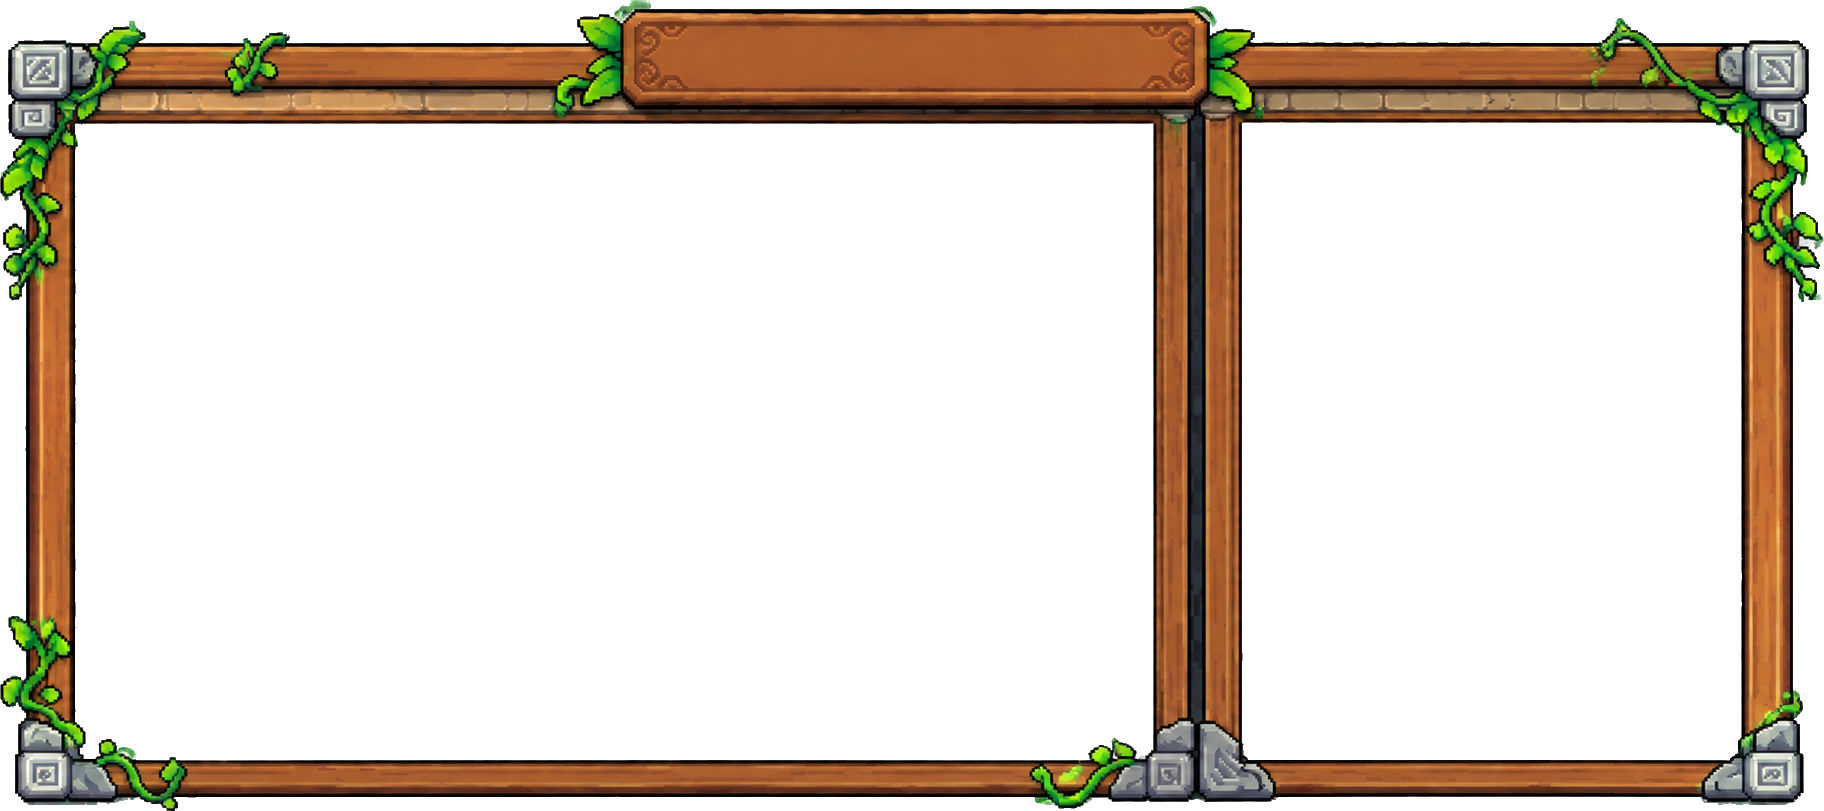
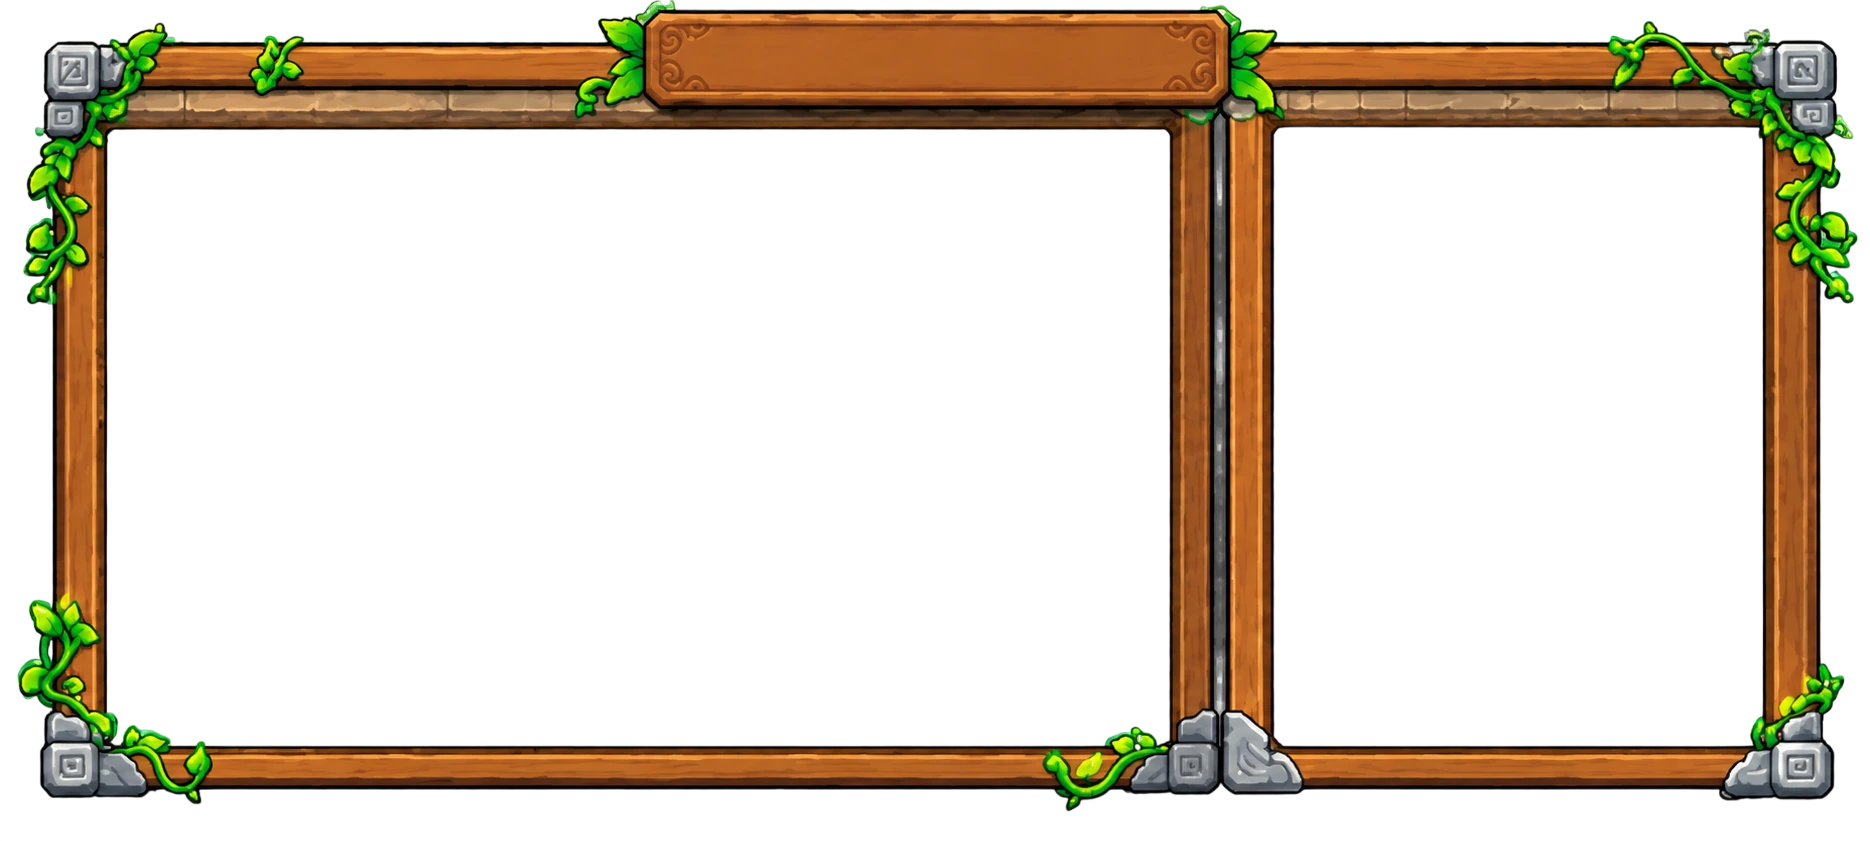
Menu: new frame image and image-based close button
Claude-Session: https://claude.ai/code/session_01U5wpp6cRMfC8wB3ie8L38i

Changed region(s): [[0.0, 0.0, 1.0, 1.0]]

diff --git a/css/menu.css b/css/menu.css
@@ -11,24 +11,26 @@
 .tm-btn.on{filter:brightness(1.3);outline-color:#ffd54a}
 
 /* KHUNG MENU: ảnh khung gỗ viền đá (assets/ui/menu-frame.webp, nền trong suốt) phủ lên 2 ô nội dung.
-   Ảnh 1824x811: ô trái (danh sách) x76..1152, ô phải (chi tiết) x1242..1740, cùng y124..759, bảng tên x625..1205 y14..100.
+   Ảnh 1870x841: ô trái (danh sách) x108..1168, ô phải (chi tiết) x1274..1761, cùng y130..745, bảng tên x646..1227 y14..105.
    Mọi vị trí bên dưới tính theo % của khung nên co giãn theo ảnh; chữ trong khung tính theo em (gmFit đặt cỡ chữ gốc). */
 #gm{position:fixed;inset:0;z-index:40;box-sizing:border-box;padding:clamp(54px,9.5vh,70px) 1.5% 1.5%;display:flex;align-items:center;justify-content:center;background:rgba(0,0,0,.5);font-family:'Fredoka',sans-serif;color:#fff1d6}
 #gm.hidden{display:none}
-.gm-frame{position:relative;width:80em;max-width:100%;aspect-ratio:1824/811}
+.gm-frame{position:relative;width:80em;max-width:100%;aspect-ratio:1870/841}
 .gm-frame::after{content:'';position:absolute;inset:0;z-index:3;pointer-events:none;background:url("../assets/ui/menu-frame.webp") center/100% 100% no-repeat;filter:drop-shadow(0 .3em .6em rgba(0,0,0,.55))}
 .gm-body{position:absolute;inset:0}
 
 /* tiêu đề nằm trên bảng gỗ + nút ĐÓNG tròn ở góc trên phải của khung */
-.gm-title{position:absolute;z-index:4;left:34.3%;width:31.8%;top:1.7%;height:11.5%;display:flex;align-items:center;justify-content:center;font-size:1.7em;font-weight:700;letter-spacing:.04em;color:#fff6dc;white-space:nowrap;
+.gm-title{position:absolute;z-index:4;left:34.5%;width:31.1%;top:1.7%;height:10.8%;display:flex;align-items:center;justify-content:center;font-size:1.7em;font-weight:700;letter-spacing:.04em;color:#fff6dc;white-space:nowrap;
   text-shadow:.07em .07em 0 #3a1d0c,-.07em .07em 0 #3a1d0c,.07em -.07em 0 #3a1d0c,-.07em -.07em 0 #3a1d0c,0 .12em 0 #3a1d0c}
-#gm-close{position:absolute;right:calc(2.2% - 1.3em);top:calc(9.4% - 1.3em);z-index:5;width:2.6em;height:2.6em;padding:0;display:flex;align-items:center;justify-content:center;border-radius:50%;font-size:1em;line-height:1;border-color:#ffd68a;outline:.15em solid #3a1208;box-shadow:0 .25em .5em rgba(0,0,0,.55)}
+#gm-close{position:absolute;right:calc(1.9% - 2.2em);top:calc(5.4% - 2.2em);z-index:5;width:4.4em;height:4.4em;padding:0;border:0;background:url("../assets/ui/close-btn.webp") center/contain no-repeat;cursor:pointer;filter:drop-shadow(0 .2em .3em rgba(0,0,0,.55));transition:transform .12s,filter .12s}
+#gm-close:hover{transform:scale(1.08);filter:brightness(1.12) drop-shadow(0 .2em .3em rgba(0,0,0,.55))}
+#gm-close:active{transform:scale(.94)}
 
 /* Ô NỘI DUNG: nằm đúng trong lòng khung (nền gỗ tối; mép giấu dưới thanh gỗ của ảnh khung) */
-.gm-panel{position:absolute;top:calc(15.3% - .3em);height:calc(78.3% + .6em);box-sizing:border-box;display:flex;flex-direction:column;min-height:0;padding:1em 1.1em .8em;overflow:hidden;
+.gm-panel{position:absolute;top:calc(15.46% - .3em);height:calc(73.2% + .6em);box-sizing:border-box;display:flex;flex-direction:column;min-height:0;padding:1em 1.1em .8em;overflow:hidden;
   background:repeating-linear-gradient(90deg,rgba(0,0,0,.13) 0 .14em,transparent .14em 3.2em),linear-gradient(#7a4a22,#5a3216)}
-.gm-list{left:calc(4.17% - .3em);width:calc(59% + .6em)}
-.gm-detail{left:calc(68.1% - .3em);width:calc(27.3% + .6em);padding:1em .9em .8em}
+.gm-list{left:calc(5.78% - .3em);width:calc(56.7% + .6em)}
+.gm-detail{left:calc(68.13% - .3em);width:calc(26.1% + .6em);padding:1em .9em .8em}
 .gm-set{gap:.8em}
 .grow{display:flex;align-items:center;justify-content:space-between;gap:1em;font-weight:700;font-size:1.1em}
 
@@ -38,7 +40,7 @@
 .gf.on{background:linear-gradient(#f4b043,#d9801c);border-color:#7a4010;color:#fff}
 
 /* LƯỚI THẺ: 6 ô mỗi hàng, cao đúng 3 hàng (nhiều hơn 18 thẻ thì cuộn) */
-.gm-grid{flex:none;height:21.8em;overflow:auto;display:grid;grid-template-columns:repeat(6,minmax(0,1fr));grid-auto-rows:6.2em;gap:.9em .6em;align-content:start;padding:1em .5em .5em;border-radius:.4em;border:.2em solid #2b160a;
+.gm-grid{flex:none;height:20.2em;overflow:auto;display:grid;grid-template-columns:repeat(6,minmax(0,1fr));grid-auto-rows:5.6em;gap:.8em .6em;align-content:start;padding:1em .5em .5em;border-radius:.4em;border:.2em solid #2b160a;
   background:repeating-linear-gradient(90deg,rgba(0,0,0,.15) 0 .12em,transparent .12em 3em),#4a2812;box-shadow:inset 0 0 .8em rgba(0,0,0,.7)}
 .gcard{position:relative;display:flex;flex-direction:column;align-items:center;gap:.2em;padding:.9em .3em .4em;border-radius:.4em;border:.2em solid #2b160a;background:linear-gradient(#b8702f,#8a4d22);box-shadow:inset 0 .12em 0 rgba(255,255,255,.22);text-align:center;cursor:pointer}
 .gcard.placed{background:linear-gradient(#ecae48,#c27a2a)}

diff --git a/js/menu/menu.js b/js/menu/menu.js
@@ -11,7 +11,7 @@ const gmEl = document.getElementById('gm');
 // cỡ chữ gốc của khung theo kích thước cửa sổ (mọi kích thước trong khung tính theo em)
 function gmFit(){
   const pad = parseFloat(getComputedStyle(gmEl).paddingTop) || 0;
-  gmEl.style.fontSize = Math.max(8, Math.min(18, (innerHeight - pad - 8) / 36.2, innerWidth * .96 / 80)) + 'px';   // khung = ảnh menu-frame.webp: rộng 80em, cao ~35.6em (tỉ lệ 1824:811)
+  gmEl.style.fontSize = Math.max(8, Math.min(18, (innerHeight - pad - 8) / 36.2, innerWidth * .96 / 80)) + 'px';   // khung = ảnh menu-frame.webp: rộng 80em, cao ~36em (tỉ lệ 1870:841)
 }
 function setMenuTab(tab){
   MENU.tab = tab;

diff --git a/index.html b/index.html
@@ -23,7 +23,7 @@
   <div id="gm" class="hidden">
     <div class="gm-frame">
       <div class="gm-title" id="gm-title">DANH SÁCH PET</div>
-      <button id="gm-close" class="gm-btn red" title="Đóng" aria-label="Đóng">✕</button>
+      <button id="gm-close" title="Đóng" aria-label="Đóng"></button>
       <div class="gm-body" id="gm-body"></div>
     </div>
   </div>
